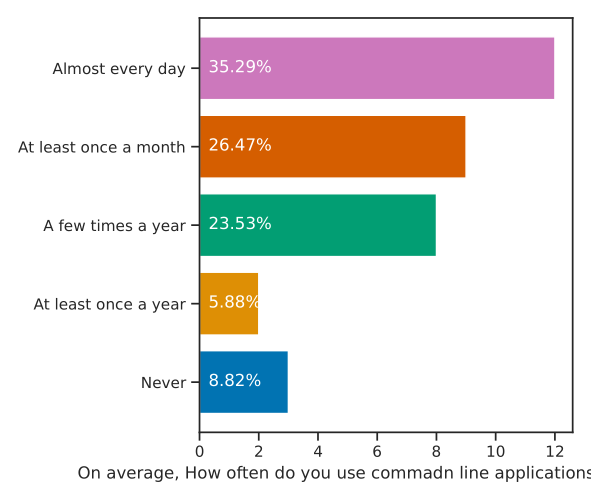
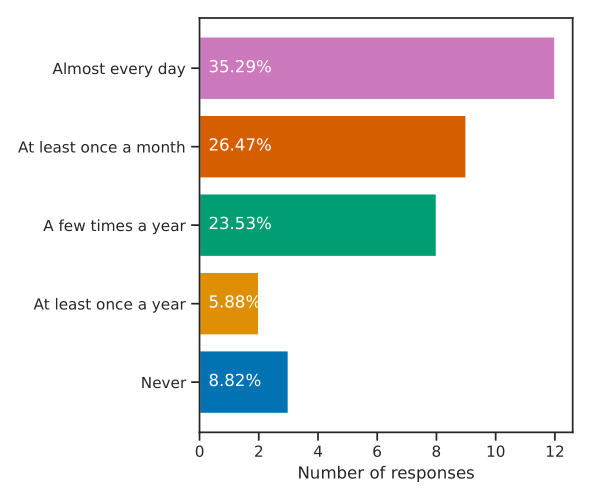
plots: Label x axis for often plots

Changed region(s): [[0.1218, 0.93, 1.0, 0.96]]

diff --git a/thesis/plots/often2/plot.py b/thesis/plots/often2/plot.py
@@ -4,7 +4,6 @@ mpl.use("pgf")
 
 import matplotlib.pyplot as plt
 import seaborn as sns
-import numpy as np
 
 fig = plt.figure()
 
@@ -37,7 +36,7 @@ for bar in bars:
     )
 
 
-plt.xlabel("On average, How often do you perform regular computing tasks such as file management from the command line")
+plt.xlabel("Number of responses")
 
 plt.tight_layout()
 fig.savefig("plot.png", dpi=100)

diff --git a/thesis/plots/often/plot.py b/thesis/plots/often/plot.py
@@ -4,7 +4,6 @@ mpl.use("pgf")
 
 import matplotlib.pyplot as plt
 import seaborn as sns
-import numpy as np
 
 fig = plt.figure()
 
@@ -36,7 +35,7 @@ for bar in bars:
         weight = "bold",
     )
 
-plt.xlabel("On average, How often do you use commadn line applications or cli tools?")
+plt.xlabel("Number of responses")
 
 plt.tight_layout()
 fig.savefig("plot.png", dpi=100)
